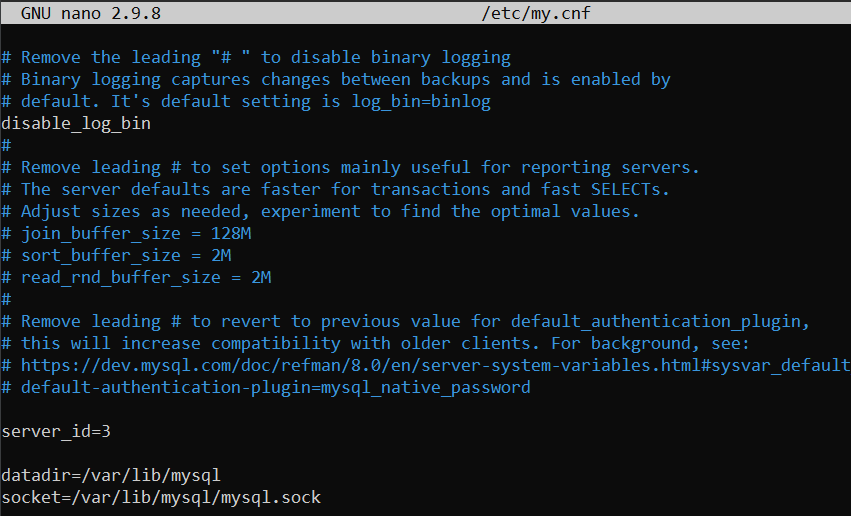
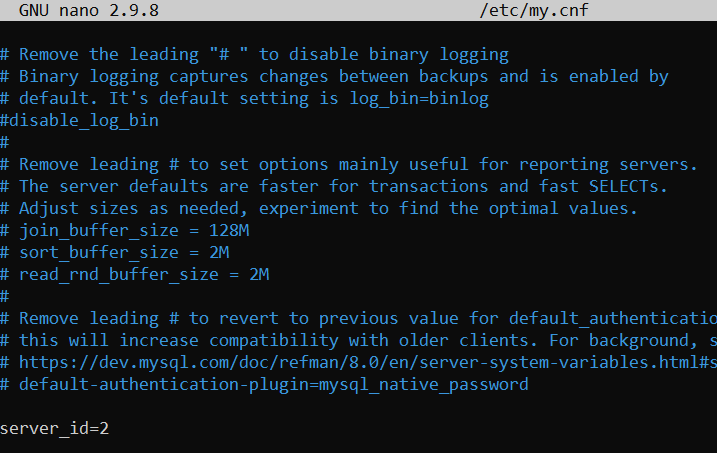
main

Changed region(s): [[0.0, 0.0927, 1.0, 0.8653], [0.0, 0.0, 1.0, 0.0618], [0.0, 0.8962, 0.3989, 0.989]]

diff --git a/Ap4/configuració-sistema-de-rèplica-bh/README.md b/Ap4/configuració-sistema-de-rèplica-bh/README.md
@@ -2,9 +2,27 @@
 
 Preparem 1 maquina mes apart de les del apartat anterior amb el Percona instalat i IPs fixa
 
+## CONFIGURACIÓ MASTER
+
+Crearem l'usuari "blackhole"
+
+`CREATE USER 'blackhole'@'IP-BLACKHOLE' IDENTIFIED WITH mysql_native_password BY '<pwd>';`
+
+I li assigem permisos de replicació
+
+`GRANT REPLICATION SLAVE ON *.* TO 'blackhole'@'IP-BLACKHOLE';`
+
+![ScreenShot](imgs/createBH.png)
+
+Comprovem la posicio i quin en binlog esta el Master
+
+`SHOW MASTER STATUS;`
+
+![ScreenShot](imgs/comprovarPosicioBinlog.png)
+
 ## CONFIGURACIÓ BLACKHOLE
 
-Modifiquem el server id i decomentem el parametre "disable_log_bin" en el my.cnf
+Modifiquem el server_id en el my.cnf
 
 ![ScreenShot](imgs/serverId.png)
 
@@ -14,7 +32,7 @@ Modifiquem el auto.cnf
 
 Reiniciem el servei de Mysql
 
-![ScreenShot](imgs/reiniciemMysql.png)
+![ScreenShot](imgs/restartMysql.png)
 
 Ara crearem l'usuari "slave"
 
@@ -31,7 +49,7 @@ Canviarem el Master de la maquina slave
 ```
 CHANGE MASTER TO
 -> MASTER_HOST = '<ip-servidor-master>',
--> MASTER_USER = 'slave',
+-> MASTER_USER = 'blackhole',
 -> MASTER_PASSWORD = '<pwd>',
 -> MASTER_PORT = 3306,
 -> MASTER_LOG_FILE = '<valor trobat anteriorment>',
@@ -39,29 +57,21 @@ CHANGE MASTER TO
 -> MASTER_CONNECT_RETRY = 10;
 ```
 
-![ScreenShot](imgs/changeMaster.png)
+![ScreenShot](imgs/changeMasterBH.png)
 
 I iniciem l'slave
 
 `START SLAVE;`
 
-![ScreenShot](imgs/startSlave.png)
+![ScreenShot](imgs/startSlaveBH.png)
 
 Executant la seguent comanda, hauriem de trobar el seguent misatge, per asegurarnos de que tot ha sortit bé
 
 `SHOW SLAVE STATUS\G;`
 
-![ScreenShot](imgs/statusSlave.png)
+![ScreenShot](imgs/statusSlaveBH.png)
 
-## CONFIGURACIÓ MASTER
-
-Crearem l'usuari "blackhole"
-
-`CREATE USER 'blackhole'@'IP-SLAVE' IDENTIFIED WITH mysql_native_password BY '<pwd>';`
-
-I li assigem permisos de replicació
-
-`GRANT REPLICATION SLAVE ON *.* TO 'slave'@'IP-SLAVE';`
+FALTA HACER EL BLACKHOLE EN CADA TABLA
 
 ## CONFIGURACIÓ SLAVE
 
@@ -70,7 +80,7 @@ Canviarem el Master de la maquina slave
 ```
 CHANGE MASTER TO
 -> MASTER_HOST = '<ip-servidor-blackhole>',
--> MASTER_USER = 'blackhole',
+-> MASTER_USER = 'slave',
 -> MASTER_PASSWORD = '<pwd>',
 -> MASTER_PORT = 3306,
 -> MASTER_LOG_FILE = '<valor trobat anteriorment>',
